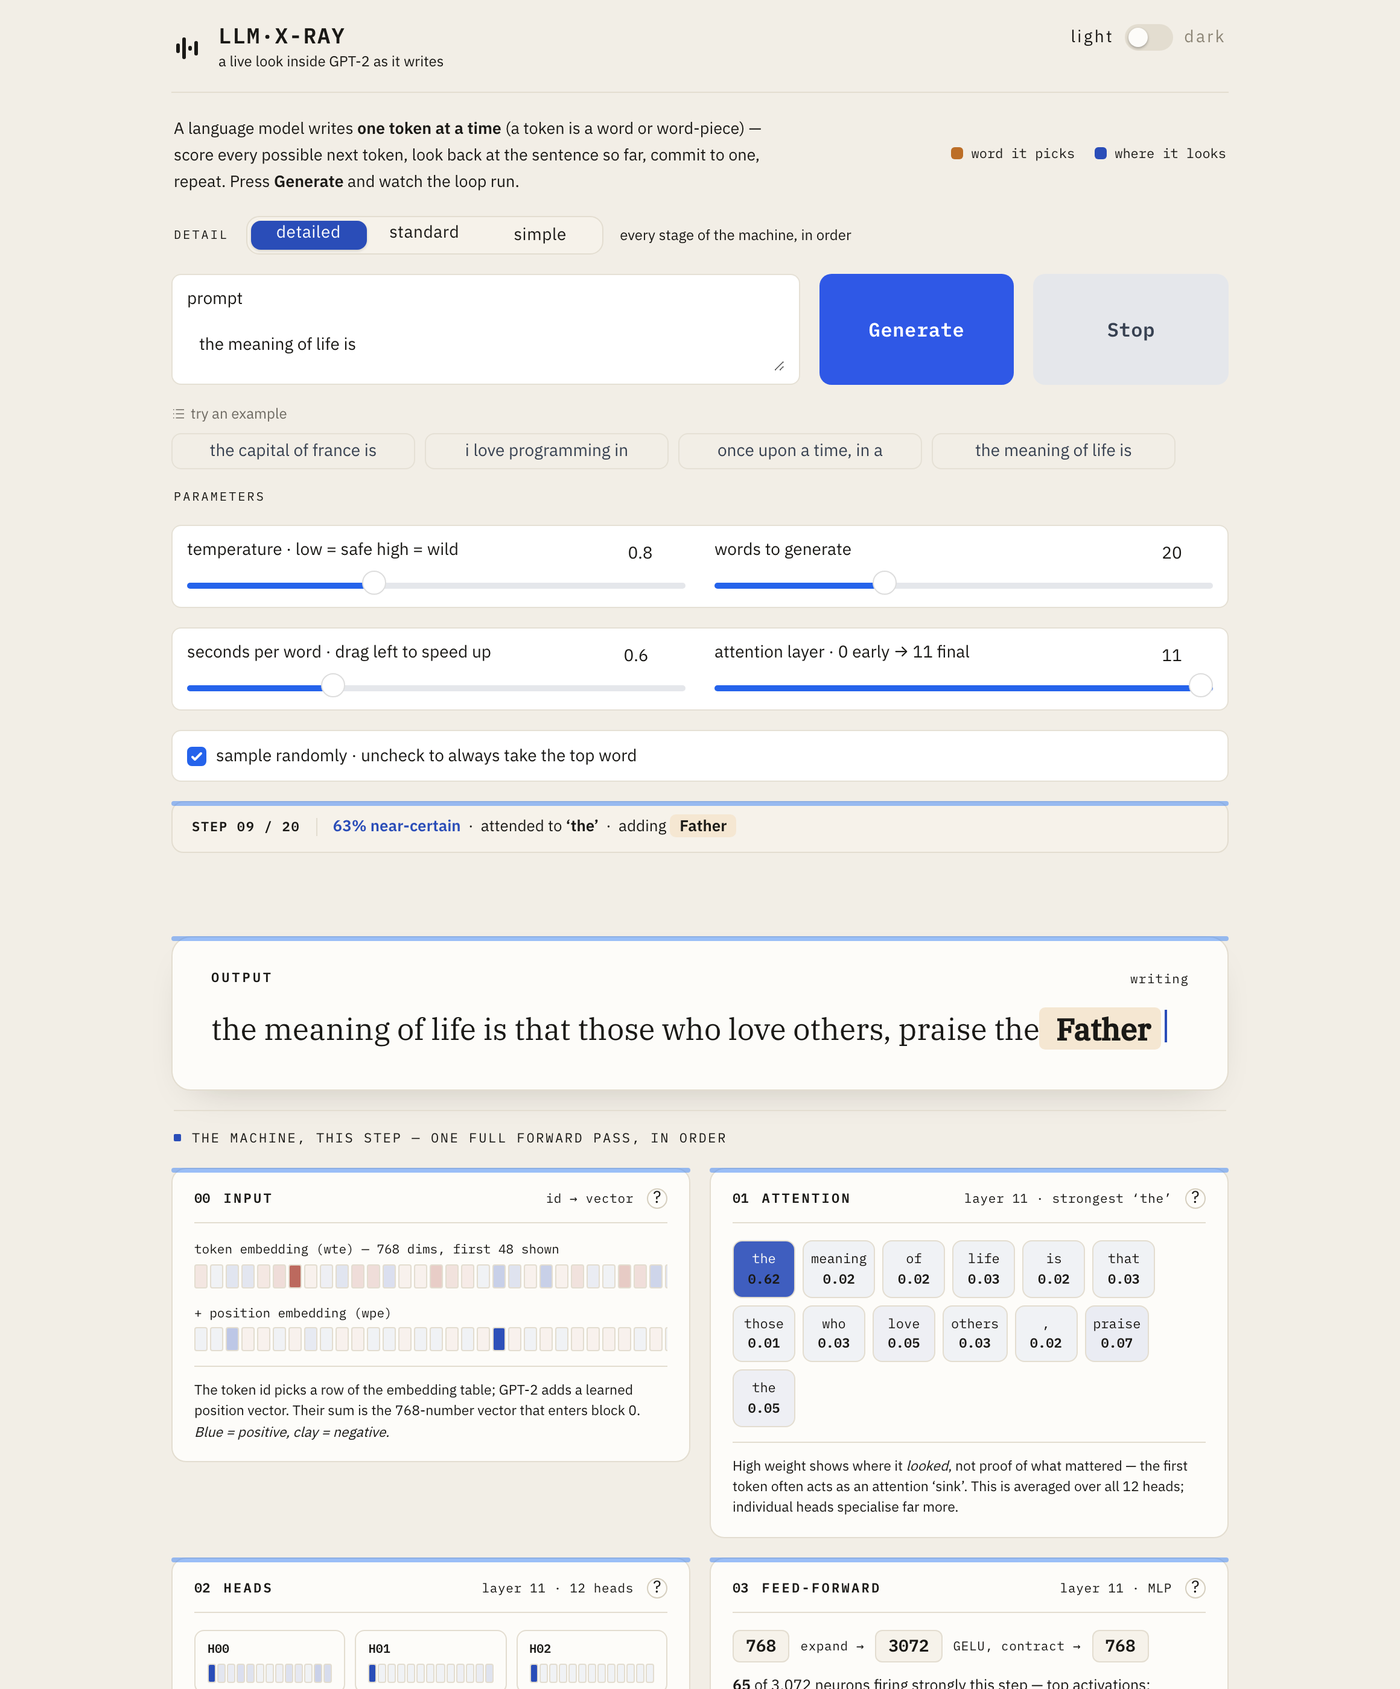
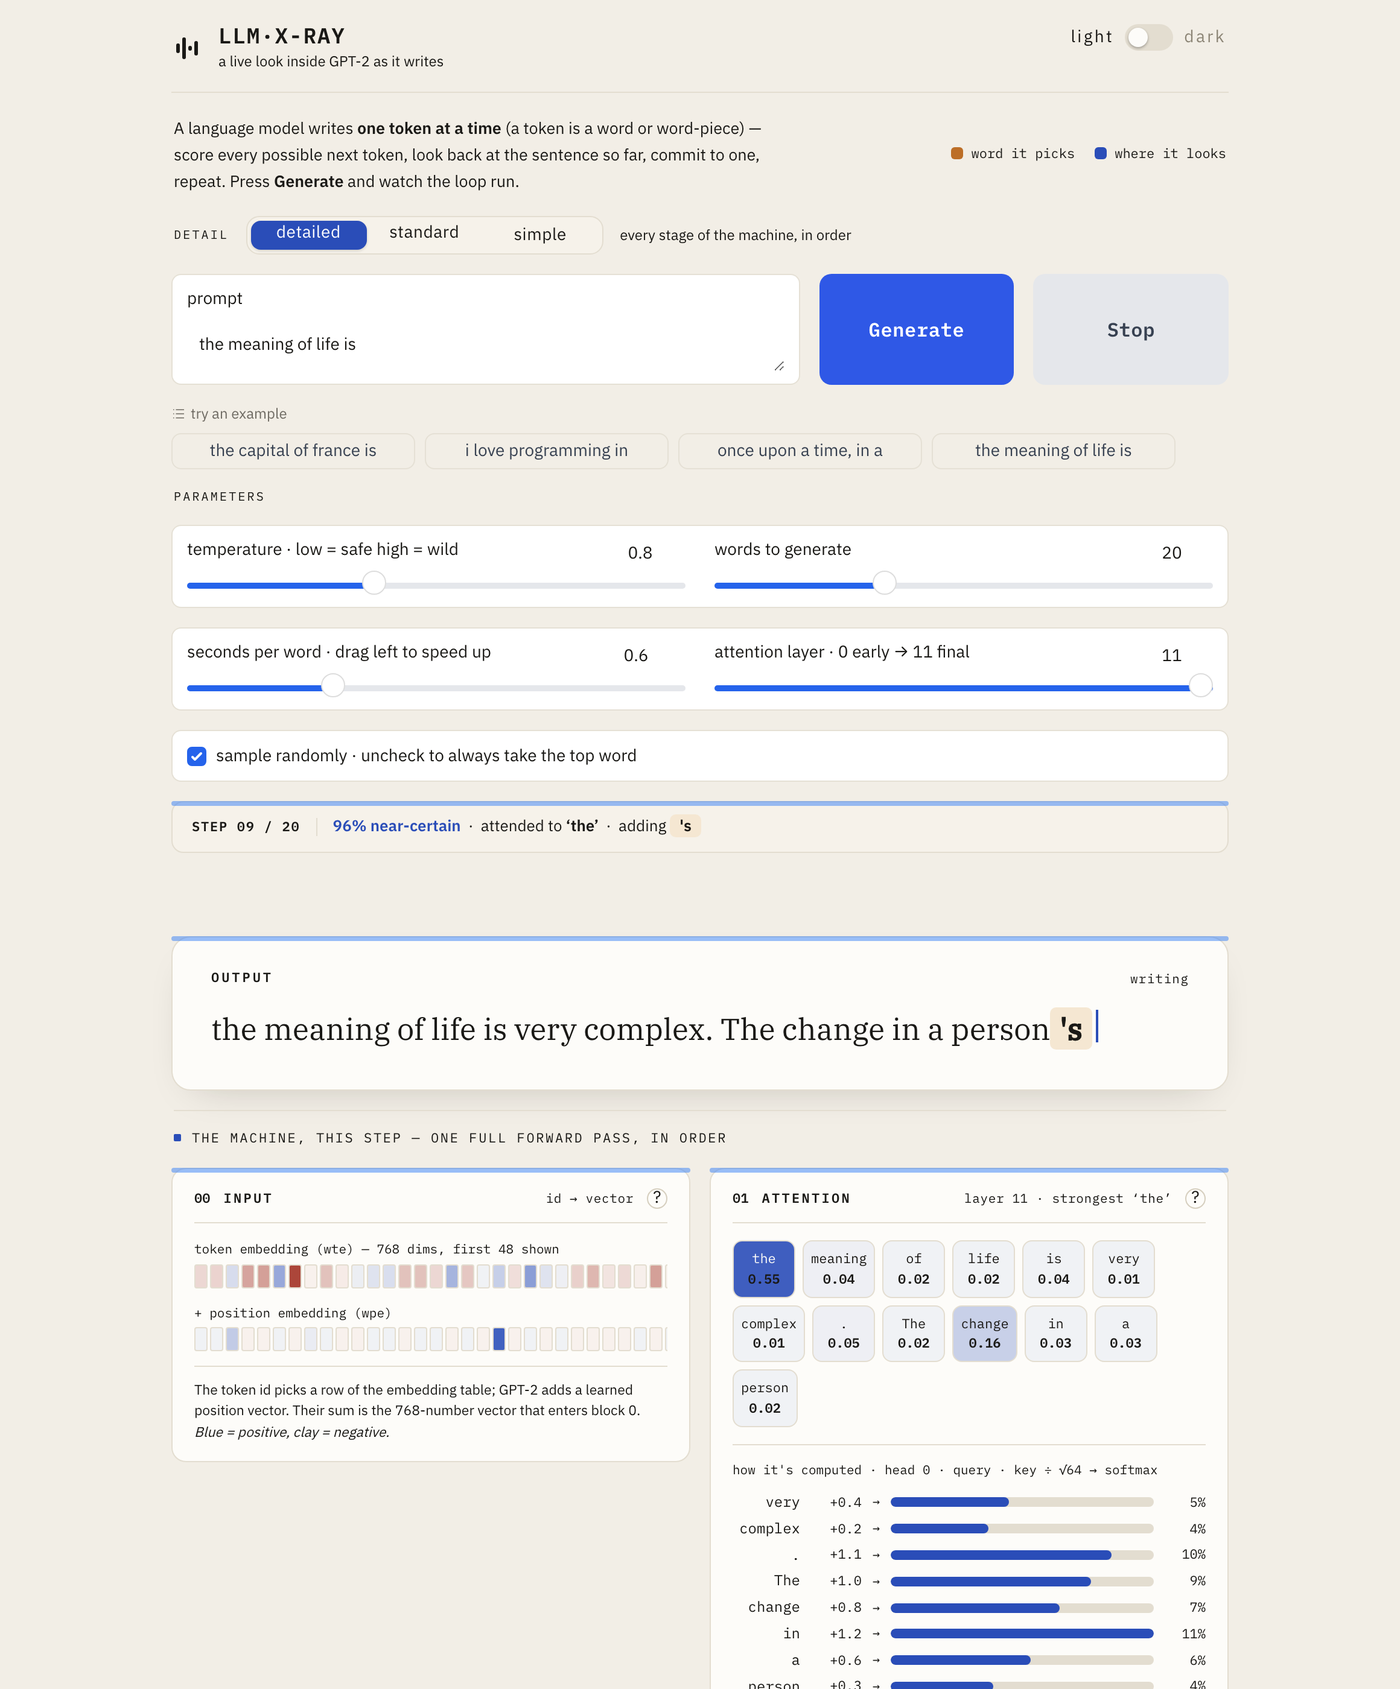
feat: show Q·K computation in attention + retire app.py (mechanism complete)
Attention was the last mechanism shown as a *result* not a *computation*. The
attention panel now shows, for one head, the current token's query dotted with
each token's key (scaled by sqrt 64) as raw scores, and softmax turning those
into the weights — captured from the real c_attn output in the same forward pass
(no extra latency). A test proves the q·k softmax equals the model's own
attention exactly.

Also retires app.py: the static slider tool was a strict subset of live.py and
pure maintenance overhead. Removes it, its test, and its README/DEPLOY mentions
(now two tools: live.py + llm_xray.py).

The flagship now traces the entire forward pass faithfully: tokenize -> embed ->
(Q·K -> softmax -> weighted sum) -> FFN -> residual -> unembed -> sample -> loop.

diff --git a/core.py b/core.py
@@ -106,23 +106,41 @@ class XRayModel:
 
     # ── forward pass internals (GPT-2 layout) ───────────────────────────────
     def forward_capturing(self, ids, layer: int):
-        """A single forward pass that also captures the FFN's post-activation
-        (3072-dim) for the last token at `layer`, via a temporary hook."""
+        """A single forward pass that also captures, for `layer`: the FFN's
+        post-activation (3072-dim, last token) and the raw c_attn output (the
+        q/k/v for every position) — both via temporary hooks, one forward."""
         store = {}
         block = self.model.transformer.h[layer]
 
-        def hook(_module, _inp, outp):
-            store["ffn_act"] = outp[0, -1].detach()  # post-GELU, last token
+        def ffn_hook(_m, _i, o):
+            store["ffn"] = o[0, -1].detach()           # post-GELU, last token
 
-        # the lock keeps a concurrent request's forward from firing this hook
+        def attn_hook(_m, _i, o):
+            store["qkv"] = o[0].detach()               # c_attn output [seq, 3*n_embd]
+
+        # the lock keeps a concurrent request's forward from firing these hooks
         with self._lock:
-            handle = block.mlp.act.register_forward_hook(hook)
+            h1 = block.mlp.act.register_forward_hook(ffn_hook)
+            h2 = block.attn.c_attn.register_forward_hook(attn_hook)
             try:
                 with torch.no_grad():
                     out = self.model(ids)
             finally:
-                handle.remove()
-        return out, store.get("ffn_act")
+                h1.remove()
+                h2.remove()
+        return out, store.get("ffn"), store.get("qkv")
+
+    def qk_scores(self, qkv, head: int = 0):
+        """From a captured c_attn output, the scaled query·key scores and their
+        softmax (= the attention weights) for the LAST token at `head`. This is
+        how attention is actually computed, before it becomes the weights."""
+        n_embd = self.model.config.n_embd
+        hd = n_embd // self.n_head
+        q, k, _ = qkv.split(n_embd, dim=-1)            # each [seq, n_embd]
+        q = q.view(-1, self.n_head, hd)
+        k = k.view(-1, self.n_head, hd)
+        scores = (k[:, head] @ q[-1, head]) / (hd ** 0.5)   # [seq]
+        return scores, torch.softmax(scores, dim=-1)
 
     def input_embedding(self, ids):
         """The two vectors that assemble the last token's input: its token

diff --git a/panels.py b/panels.py
@@ -228,7 +228,7 @@ def candidates_panel(cands, probs, chosen_idx) -> str:
 
 # ── 02 · Attention ──────────────────────────────────────────────────────────────
 
-def attention_panel(labels, weights, layer) -> str:
+def attention_panel(labels, weights, layer, qk_labels, qk_scores, qk_weights) -> str:
     if not weights:
         return ""
     mx = max(weights)
@@ -243,14 +243,34 @@ def attention_panel(labels, weights, layer) -> str:
             f'style="background:color-mix(in srgb, var(--xr-accent) {pct}%, transparent);color:{text}">'
             f"{esc(lab)}<i>{w:.2f}</i></span>"
         )
+
+    # the actual computation, for one head: query·key → score → softmax → weight
+    wmax = max(qk_weights) or 1.0
+    qk_rows = []
+    for lab, s, w in zip(qk_labels, qk_scores, qk_weights):
+        qk_rows.append(
+            '<div class="xr-qk-row">'
+            f'<span class="xr-qk-tok">{esc(lab)}</span>'
+            f'<span class="xr-qk-score">{s:+.1f}</span>'
+            '<span class="xr-qk-arrow">&rarr;</span>'
+            f'<span class="xr-qk-bar"><i style="width:{w / wmax * 100:.0f}%"></i></span>'
+            f'<span class="xr-qk-w">{w * 100:.0f}%</span>'
+            "</div>"
+        )
+    qk = (
+        '<div class="xr-qk-head">how it\'s computed '
+        '<span>· head 0 · query · key &divide; &radic;64 &rarr; softmax</span></div>'
+        f'<div>{"".join(qk_rows)}</div>'
+    )
+
     inner = (
-        f'<div class="xr-chips">{"".join(chips)}</div>'
-        '<div class="xr-foot">High weight shows where it <i>looked</i>, not proof of what '
-        'mattered &mdash; the first token often acts as an attention &lsquo;sink&rsquo;. '
-        'This is averaged over all 12 heads; individual heads specialise far more.</div>'
+        f'<div class="xr-chips">{"".join(chips)}</div>{qk}'
+        '<div class="xr-foot">The chips average all 12 heads. The rows are the real computation '
+        'for one head: this token\'s <b>query</b> vector dotted with each token\'s <b>key</b> gives '
+        'a raw score; softmax turns scores into weights &mdash; high score &rarr; high weight.</div>'
     )
     return _panel("01", "ATTENTION", f"layer {layer} · strongest &lsquo;{esc(top)}&rsquo;", inner,
-                  explain="Which earlier words the model looked back at to choose the next one.")
+                  explain="Which earlier words it looked at — and how query·key produces that.")
 
 
 # ── 03 · Confidence ─────────────────────────────────────────────────────────────

diff --git a/tests/test_core.py b/tests/test_core.py
@@ -33,7 +33,7 @@ def xm():
 def test_logit_lens_final_matches_greedy():
     m = xm()
     ids = m.encode("the capital of france is")
-    out, _ = m.forward_capturing(ids, m.n_layer - 1)
+    out, _, _ = m.forward_capturing(ids, m.n_layer - 1)
     rows = m.logit_lens(out.hidden_states)
     greedy = m.decode([int(out.logits[0, -1].argmax())])
     assert rows[-1][1] == greedy, "logit lens final layer must equal the real greedy token"
@@ -45,11 +45,20 @@ def test_ffn_hook_is_faithful():
     blk = m.model.transformer.h[5]
     store = {}
     h = blk.mlp.register_forward_hook(lambda mod, i, o: store.__setitem__("in", i[0].detach()))
-    _, act = m.forward_capturing(ids, 5)
+    _, act, _ = m.forward_capturing(ids, 5)
     h.remove()
     manual = blk.mlp.act(blk.mlp.c_fc(store["in"]))[0, -1]
     assert act.shape[0] == 3072
     assert torch.allclose(act, manual, atol=1e-4), "captured FFN activation must match recompute"
+
+
+def test_qk_matches_attention():
+    m = xm()
+    ids = m.encode("the capital of france is")
+    out, _, qkv = m.forward_capturing(ids, 5)
+    _, weights = m.qk_scores(qkv, head=0)
+    real = out.attentions[5][0, 0, -1]                  # head 0, last token's weights
+    assert torch.allclose(weights, real, atol=1e-4), "q·k softmax must equal the model's attention"
 
 
 def test_input_embedding_dims():
@@ -60,7 +69,7 @@ def test_input_embedding_dims():
 
 def test_residual_stream_grows():
     m = xm()
-    out, _ = m.forward_capturing(m.encode("the meaning of life is"), 5)
+    out, _, _ = m.forward_capturing(m.encode("the meaning of life is"), 5)
     norms = [float(h[0, -1].norm()) for h in out.hidden_states]
     assert len(norms) == m.n_layer + 1          # embedding + one per block
     assert norms[-1] > norms[0]                  # the residual stream accumulates
@@ -68,7 +77,7 @@ def test_residual_stream_grows():
 
 def test_softmax_sums_to_one():
     m = xm()
-    out, _ = m.forward_capturing(m.encode("one two three"), 0)
+    out, _, _ = m.forward_capturing(m.encode("one two three"), 0)
     p = F.softmax(out.logits[0, -1] / 0.8, dim=-1)
     assert abs(float(p.sum()) - 1.0) < 1e-4
 
@@ -80,13 +89,6 @@ def test_live_panels_escape_html():
     assert "&lt;b&gt;" in panels.text_panel("p", mal, mal, False)
     assert "<b>" not in panels.candidates_panel([mal], [0.5], 0)
     assert "<b>" not in panels.heads_panel([(0, [1.0])], [mal], 0)
-
-
-def test_app_tokens_html_escaped():
-    import app
-    out = app.analyze("a < b", 11, 0, 0.8, 8)[0]
-    assert "&lt;" in out, "app.py token table must HTML-escape token text (XSS guard)"
-    assert "<code><" not in out, "no raw '<' token should reach the DOM"
 
 
 if __name__ == "__main__":

diff --git a/styles.py b/styles.py
@@ -228,6 +228,20 @@ html[data-xr-level="intermediate"] .xr-lvl-expert { display:none !important; }
 .xr-head-strip { display:flex; gap:1px; margin-top:5px; }
 .xr-mini { flex:1; height:16px; border-radius:2px; min-width:3px; border:1px solid var(--xr-line); }
 
+/* ── Attention Q·K computation ──────────────────────────── */
+.xr-qk-head { font-family:var(--xr-mono); font-size:10.5px; color:var(--xr-text);
+  margin:14px 0 9px; padding-top:13px; border-top:1px solid var(--xr-line); }
+.xr-qk-head span { color:var(--xr-faint); }
+.xr-qk-row { display:flex; align-items:center; gap:9px; padding:2.5px 0; }
+.xr-qk-tok { flex:0 0 56px; text-align:right; font-family:var(--xr-mono); font-size:12px;
+  color:var(--xr-muted); white-space:nowrap; overflow:hidden; text-overflow:ellipsis; }
+.xr-qk-score { font-family:var(--xr-mono); font-size:11px; color:var(--xr-text); width:42px;
+  text-align:right; font-variant-numeric:tabular-nums; }
+.xr-qk-arrow { font-family:var(--xr-mono); font-size:10px; color:var(--xr-faint); }
+.xr-qk-bar { flex:1; height:8px; background:var(--xr-line); border-radius:4px; overflow:hidden; }
+.xr-qk-bar i { display:block; height:100%; background:var(--xr-accent); border-radius:4px; transition:width .35s ease; }
+.xr-qk-w { font-family:var(--xr-mono); font-size:11px; color:var(--xr-muted); width:34px; text-align:right; }
+
 /* ── Feed-forward ───────────────────────────────────────── */
 .xr-ffn-flow { display:flex; align-items:center; gap:9px; flex-wrap:wrap; margin-bottom:10px; }
 .xr-ffn-dim { font-family:var(--xr-mono); font-size:14px; font-weight:600; color:var(--xr-text);

diff --git a/live.py b/live.py
@@ -50,7 +50,7 @@ def stream(prompt, temperature, max_new, delay, do_sample, layer):
     log = []
 
     for step in range(1, total + 1):
-        out, ffn_act = xm.forward_capturing(ids, layer)
+        out, ffn_act, qkv = xm.forward_capturing(ids, layer)
 
         logits = out.logits[0, -1]
         probs = F.softmax(logits / temperature, dim=-1)
@@ -69,6 +69,12 @@ def stream(prompt, temperature, max_new, delay, do_sample, layer):
         hlabels = labels[-14:]
         per_head = [(hh, attn_layer[hh, -1].tolist()[-14:])
                     for hh in range(attn_layer.shape[0])]
+
+        # the actual Q·K computation for head 0 (last ~8 tokens)
+        qk_s, qk_w = xm.qk_scores(qkv, head=0)
+        qk_labels = labels[-8:]
+        qk_scores = qk_s[-8:].tolist()
+        qk_weights = qk_w[-8:].tolist()
 
         # 03 feed-forward neurons (post-GELU activations, last token)
         nvals, nidx = torch.topk(ffn_act, 8)
@@ -108,7 +114,7 @@ def stream(prompt, temperature, max_new, delay, do_sample, layer):
             narration_panel(step, total, chosen, top_prob, top_attn),
             text_panel(prompt_text, gen_text, chosen, False),
             emb,
-            attention_panel(labels[-20:], weights[-20:], layer),
+            attention_panel(labels[-20:], weights[-20:], layer, qk_labels, qk_scores, qk_weights),
             heads_panel(per_head, hlabels, layer),
             ffn_panel(top_neurons, n_active, ffn_act.shape[0], layer),
             residual_panel(resid_norms, resid_deltas),

diff --git a/README.md b/README.md
@@ -44,12 +44,11 @@ What this tool does that they don't:
 
 ---
 
-## The three tools
+## The two tools
 
 | Tool | Where | What it is |
 |---|---|---|
 | [`live.py`](live.py) | browser, **`:7861`** | **the flagship** — live token-by-token generation, full forward pass, depth toggle, dark/light |
-| [`app.py`](app.py) | browser, `:7860` | static, slider-driven panels for one prompt (tokens, attention heatmap, residual, next-token) |
 | [`llm_xray.py`](llm_xray.py) | terminal | a printed walkthrough of one forward pass + a saved attention heatmap |
 
 ```bash
@@ -57,7 +56,6 @@ python3 -m venv .venv
 ./.venv/bin/pip install -r requirements.txt
 
 ./.venv/bin/python live.py        # → http://127.0.0.1:7861  (start here)
-./.venv/bin/python app.py         # → http://127.0.0.1:7860
 ./.venv/bin/python llm_xray.py    # terminal
 ```
 
@@ -151,7 +149,6 @@ llm-xray/
 ├── live.py            # flagship live UI (port 7861)
 ├── styles.py          # the visual system: CSS theme, header, depth toggle, JS
 ├── panels.py          # HTML panel generators (input, attention, heads, FFN, lens, …)
-├── app.py             # static slider UI (port 7860)
 ├── llm_xray.py        # terminal walkthrough
 ├── tests/test_core.py # correctness + security smoke tests
 ├── .github/workflows/ # CI: runs the tests on every push / PR

diff --git a/DEPLOY.md b/DEPLOY.md
@@ -30,7 +30,7 @@ license: mit
 ```
 
 Two lines matter most:
-- `app_file: live.py` — Spaces defaults to `app.py`, which here is the *other* tool.
+- `app_file: live.py` — Spaces defaults to looking for `app.py`; this repo's app is `live.py`.
 - `python_version: "3.11"` — Gradio 4.x pulls in `pydub`, which imports the stdlib
   `audioop` module **removed in Python 3.13**. Without this pin the Space builds on
   3.13 and crashes on import. `live.py` binds `0.0.0.0` automatically when it detects